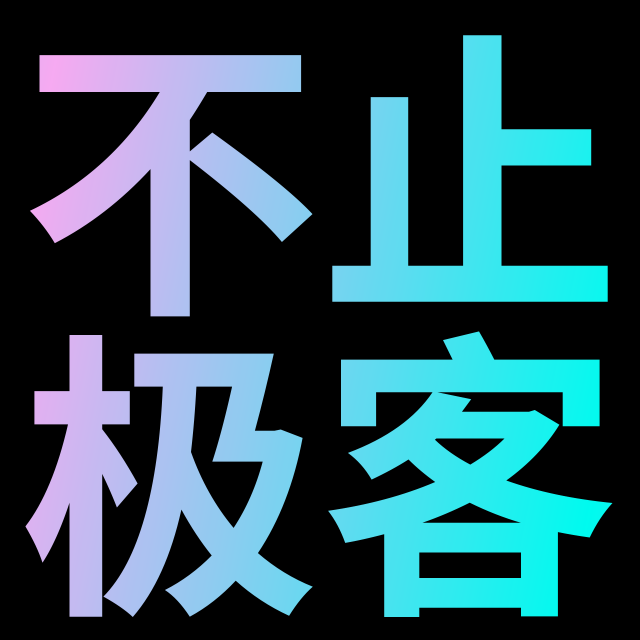
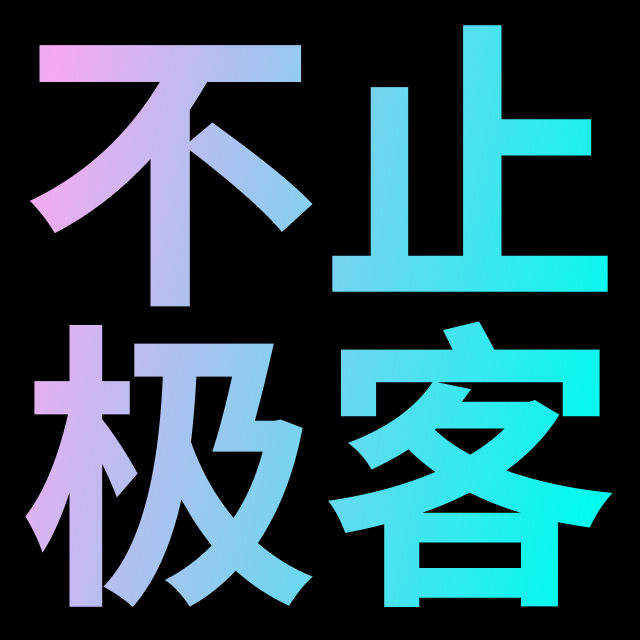
2023-07-20 16:27:47 AutoCommit.sh by Darian

diff --git a/come-tips-demo/src/main/java/com/darian/notgeekicon/IconUtils.java b/come-tips-demo/src/main/java/com/darian/notgeekicon/IconUtils.java
@@ -86,9 +86,13 @@ public class IconUtils {
             // 画字体
             fontGraphics.setPaint(fontGradientPaint);
             // x 左右，y 上下
-            fontGraphics.drawString("不止", 20, 290);
-            fontGraphics.drawString("极客", 20, 590);
+            fontGraphics.drawString("不止", 20, 280);
+            fontGraphics.drawString("极客", 20, 580);
 
+
+//            font = font.deriveFont(Font.PLAIN, 20);
+//            fontGraphics.setFont(font);
+//            fontGraphics.drawString("https://notgeek.cn", 420, 630);
             fontGraphics.dispose();
 
             return bufferImage;
